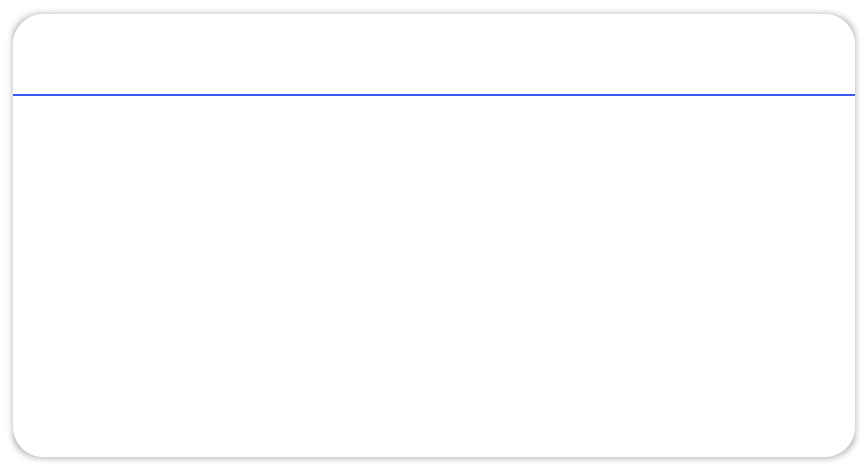
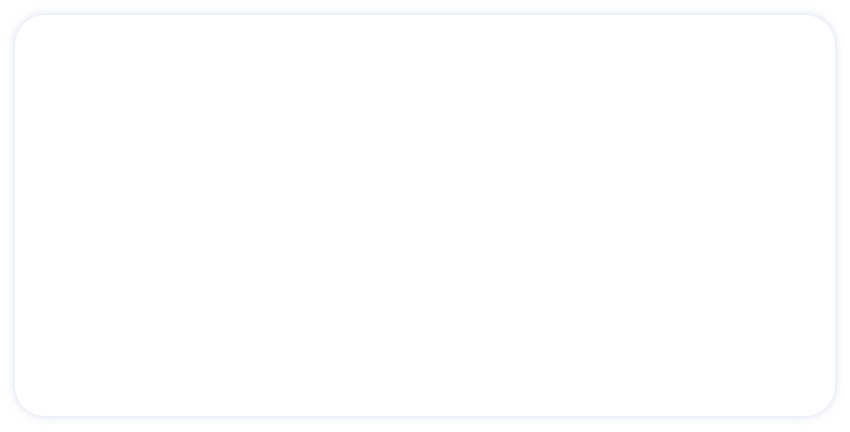
비밀번호 찾기 디자인 수정

diff --git a/CSS/FindPw.css b/CSS/FindPw.css
@@ -1,5 +1,5 @@
 html {
-    background: url(../IMG/SignUp/BG2.png) no-repeat 50% 50% fixed; 
+    background: url(../IMG/FindIdPw/BG.png) no-repeat 50% 50% fixed; 
     background-attachment: fixed ;
     -webkit-background-size: cover; 
     -moz-background-size: cover; 
@@ -29,15 +29,23 @@ html {
 /* 아이디/비밀번호 찾기 글씨 */
 .title {
     width: 100%;
-    height: 50px;
-    margin-bottom: 15px; /* 글자와 창 간격 조절 */
+    margin-bottom: 47px;
 }
 
 .title-p{
     text-align: center;
-    font-size: 32px;
+    font-size: 40px;
     font-family: 'Noto Sans KR', sans-serif;
     margin: 0; 
+    color: #FCAF49;
+}
+
+.descriptions-p{
+    text-align: center;
+    color: #666666;
+    margin-top: 10px;
+    font-size: 16px;
+    margin-bottom: 0;
 }
 
 .bar {
@@ -58,7 +66,7 @@ html {
 }
 
 /* 아이디 찾기/비밀번호 찾기 버튼 css */
-.buttons {
+/* .buttons {
     position: relative;
     width: calc(100% - 22px);
     height: 74px;
@@ -91,14 +99,14 @@ html {
 }
 .button-r a {
     color:white;
-}
+} */
 
 .input {
     position: absolute;
     width: 450px;
     height: 170px;
     left: 50%;
-    top: 27%;
+    top: 30%;
     transform: translate(-50%, 0);
 }
 
@@ -113,16 +121,18 @@ html {
     width: 15%;
     display: inline-block;
     text-align: left;
-    margin-left: 20px;
+    /* margin-left: 20px; */
     font-size: 15px;
+    color:#222222;
 }
 
 .input-info {
     float: right;
     width: 80%;
     height: 100%;
-    border:1px solid #3648ec;
+    border:0px;
     border-radius: 10px 10px 10px 10px;
+    box-shadow: 0px 1px 5px #C2C2C2;
     box-sizing: border-box;
     padding-left: 15px;
 }
@@ -143,15 +153,15 @@ html {
 }
 
 .input-info::placeholder {
-    color: #a1a1a1; 
+    color: #A0A3B5; 
     font-size: 13px;
 }
 
 #submit {
     position: absolute;
-    width:160px;
+    width:169px;
     height:60px;
-    background-color: black;
+    background-color: #FDCE08;
     color: white;
     font-size: 16px;
     border-radius: 50px;
@@ -159,4 +169,6 @@ html {
     transform: translate(50%);
     right: 50%;
     bottom: 0;
+    box-shadow: 0px 1px 5px #C2C2C2;
+    border: 0;
 }

diff --git a/FindPw.html b/FindPw.html
@@ -43,20 +43,21 @@
         <div class="container">
             <div class="contents">
                 <div class="title">
-                    <p class="title-p">아이디/비밀번호 찾기</p>
-                    <div class="bar"></div>
+                    <p class="title-p">비밀번호 찾기</p>
+                    <p class="descriptions-p">비밀번호를 찾을 수 있는 공간입니다.</p>
+                    <!-- <div class="bar"></div> -->
                 </div>
 
                 <img src="IMG/FindIdPw/window.png" id="window-img">
                 
-                <div class="buttons">
+                <!-- <div class="buttons">
                     <div class="button-l">
                         <a href="FindId.html">아이디 찾기</a>
                     </div>
                     <div class="button-r">
                         <a href="FindPw.html">비밀번호 찾기</a>
                     </div>
-                </div>
+                </div> -->
 
                 <form method="POST" action="SignUp.php" name="inputForm"> 
                     <div class="input">
